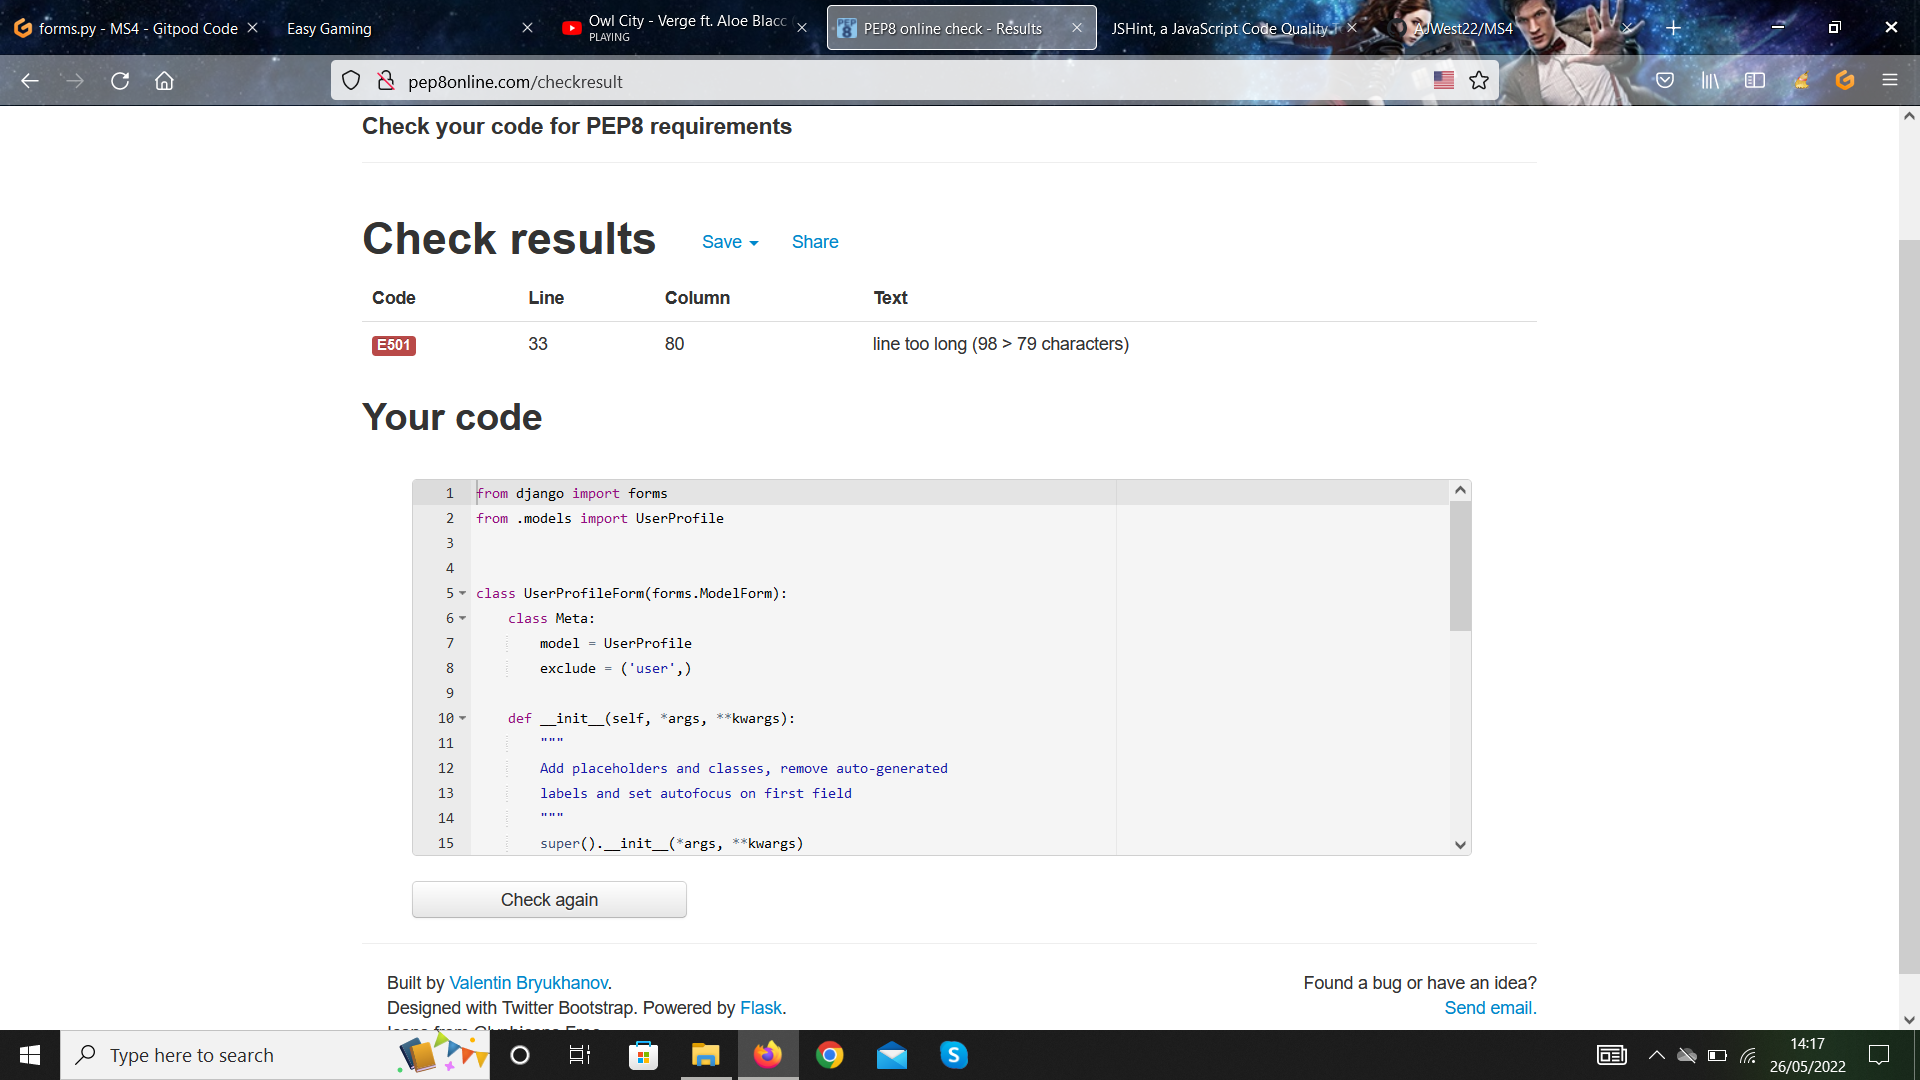
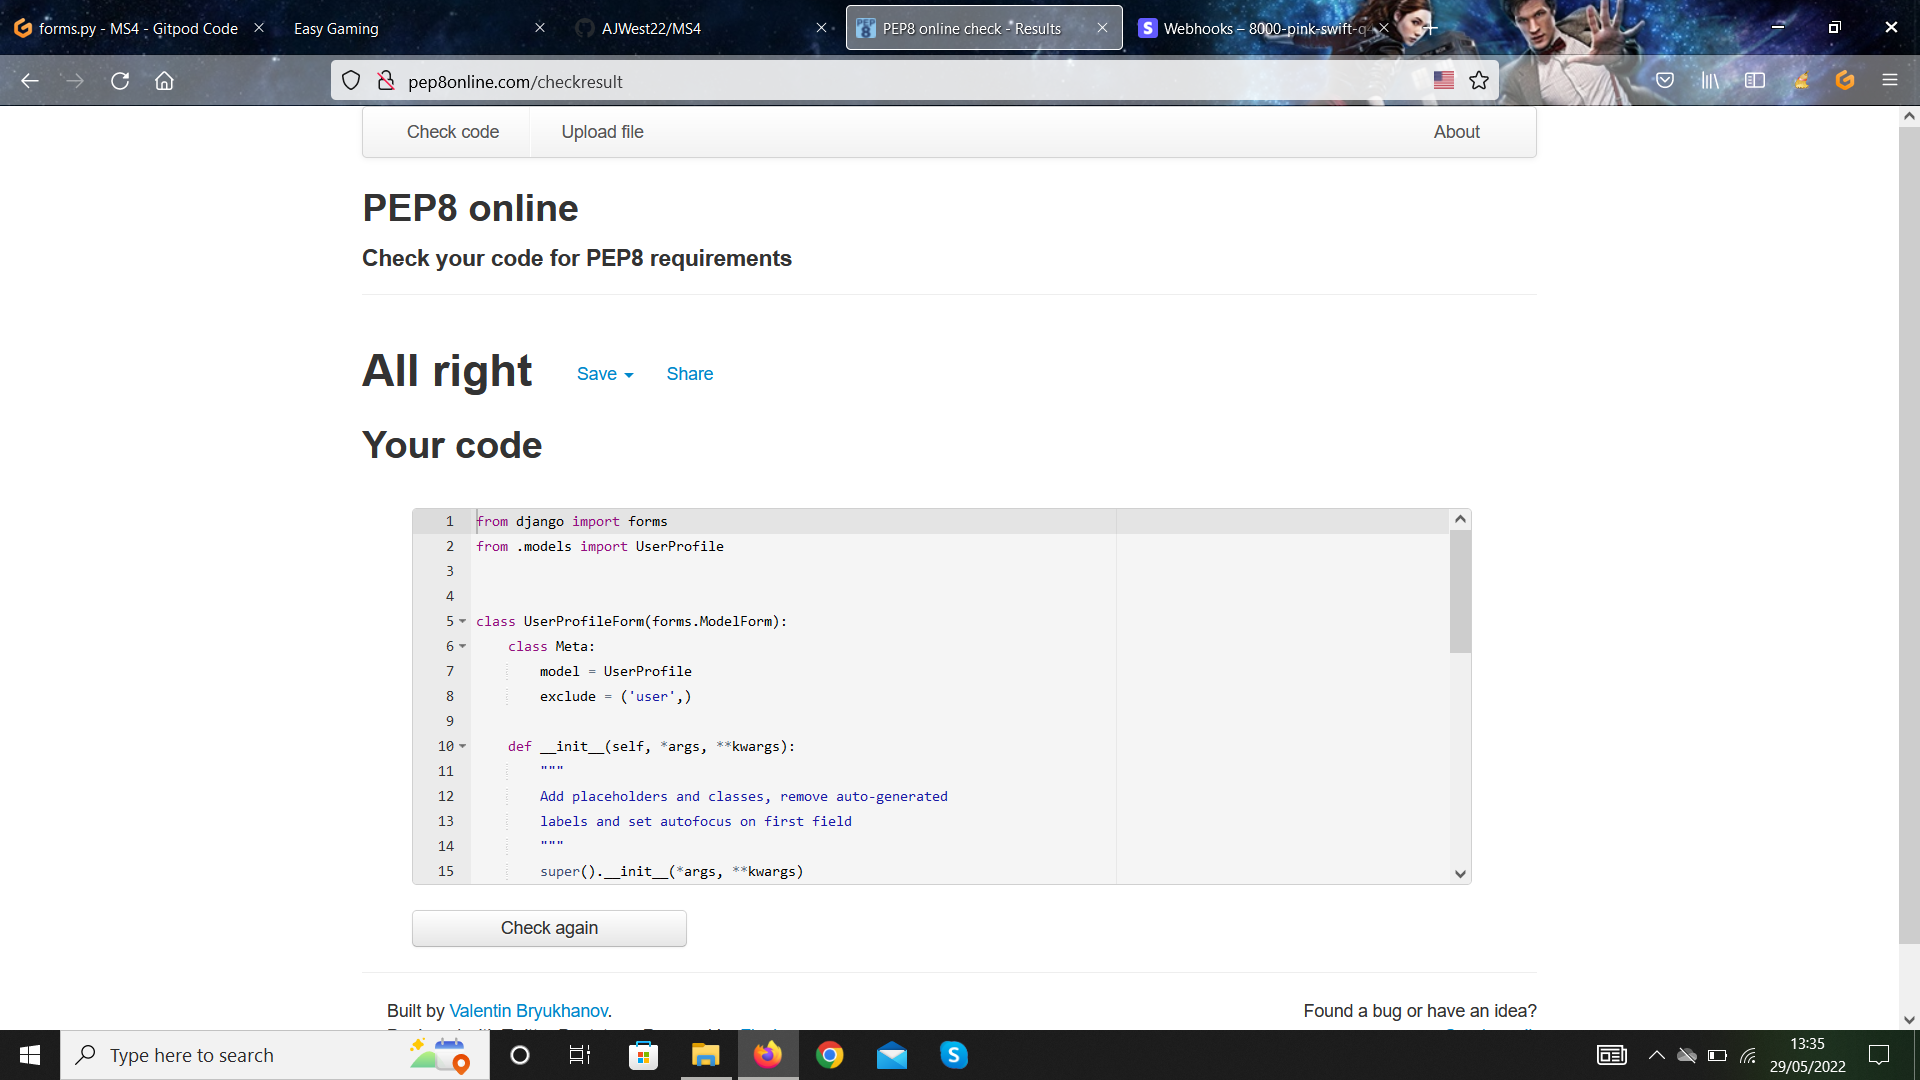
Update Profile apps python files and amend images in README

diff --git a/profiles/models.py b/profiles/models.py
@@ -12,12 +12,22 @@ class UserProfile(models.Model):
     default delivery data and order history
     """
     user = models.OneToOneField(User, on_delete=models.CASCADE)
-    default_phone_number = models.CharField(max_length=20, null=True, blank=True)
-    default_country = CountryField(blank_label='Country *', null=True, blank=True)
+    default_phone_number = models.CharField(
+        max_length=20, null=True, blank=True
+    )
+    default_country = CountryField(
+        blank_label='Country *', null=True, blank=True
+    )
     default_postcode = models.CharField(max_length=20, null=True, blank=True)
-    default_town_or_city = models.CharField(max_length=40, null=True, blank=True)
-    default_street_address1 = models.CharField(max_length=80, null=True, blank=True)
-    default_street_address2 = models.CharField(max_length=80, null=True, blank=True)
+    default_town_or_city = models.CharField(
+        max_length=40, null=True, blank=True
+    )
+    default_street_address1 = models.CharField(
+        max_length=80, null=True, blank=True
+    )
+    default_street_address2 = models.CharField(
+        max_length=80, null=True, blank=True
+    )
     default_county = models.CharField(max_length=80, null=True, blank=True)
 
     def __str__(self):

diff --git a/profiles/views.py b/profiles/views.py
@@ -19,7 +19,9 @@ def profile(request):
             form.save()
             messages.success(request, 'Profile updated successfully')
         else:
-            messages.error(request, 'Update failed. Please ensure the form is valid.')
+            messages.error(
+                request, 'Update failed. Please ensure the form is valid.'
+            )
     else:
         form = UserProfileForm(instance=profile)
     orders = profile.orders.all()
@@ -32,6 +34,7 @@ def profile(request):
     }
 
     return render(request, template, context)
+
 
 def order_history(request, order_number):
     order = get_object_or_404(Order, order_number=order_number)

diff --git a/profiles/forms.py b/profiles/forms.py
@@ -30,5 +30,7 @@ class UserProfileForm(forms.ModelForm):
                 else:
                     placeholder = placeholders[field]
                 self.fields[field].widget.attrs['placeholder'] = placeholder
-            self.fields[field].widget.attrs['class'] = 'border-black rounded-0 profile-form-input'
+            self.fields[field].widget.attrs['class'] = (
+                'border-black rounded-0 profile-form-input'
+            )
             self.fields[field].label = False
